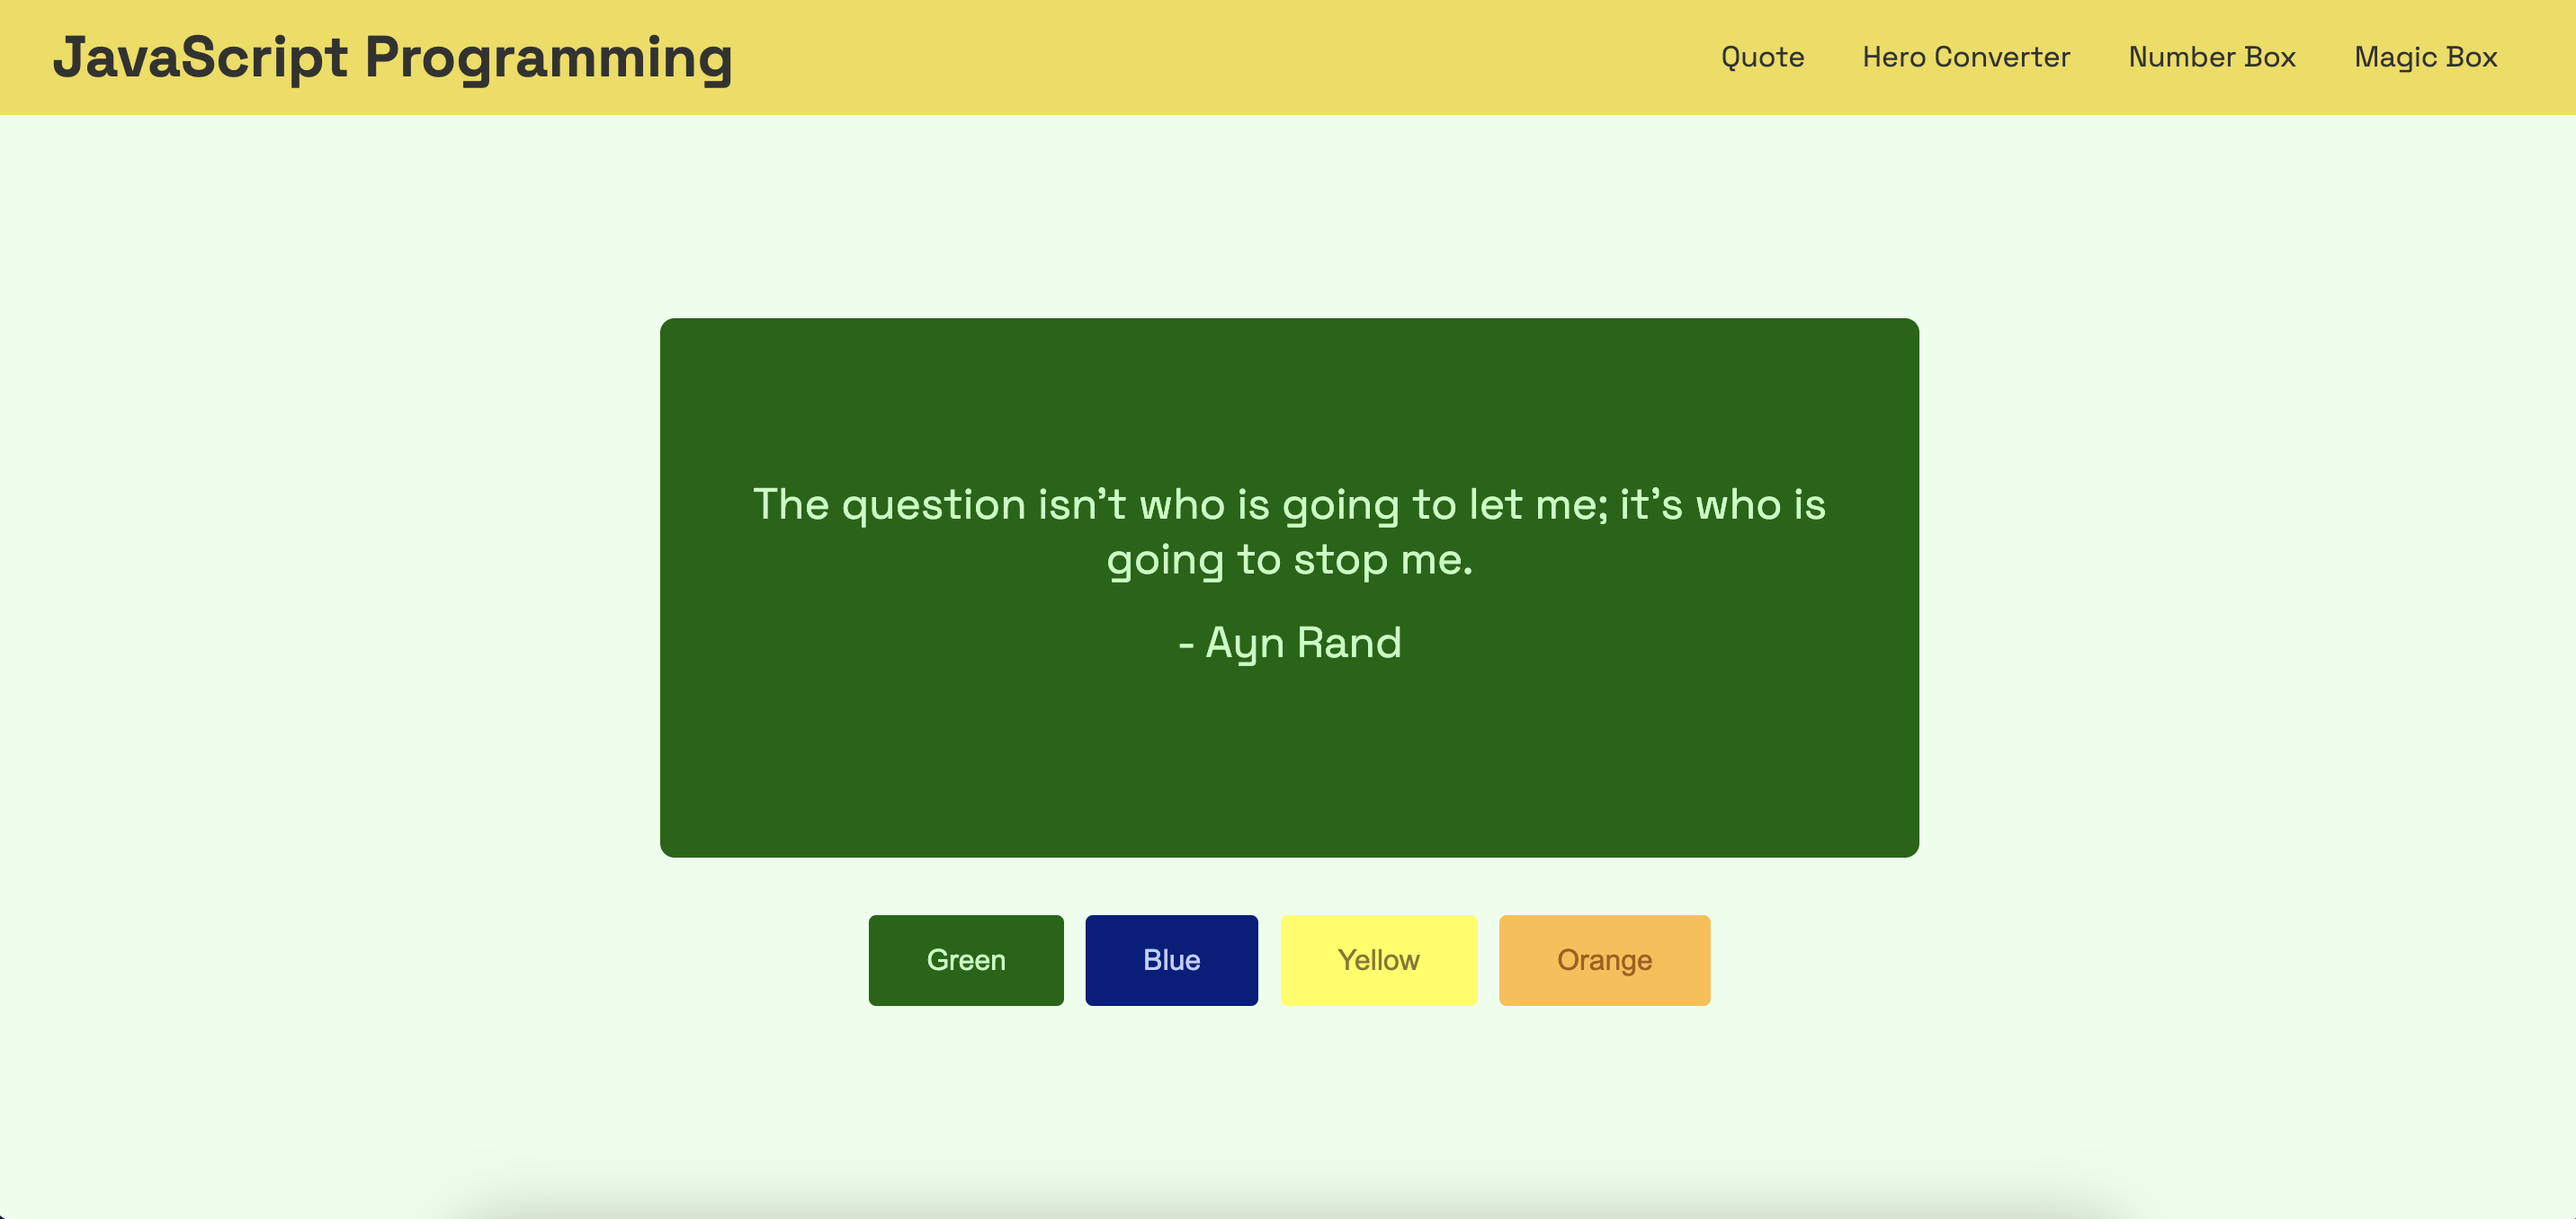
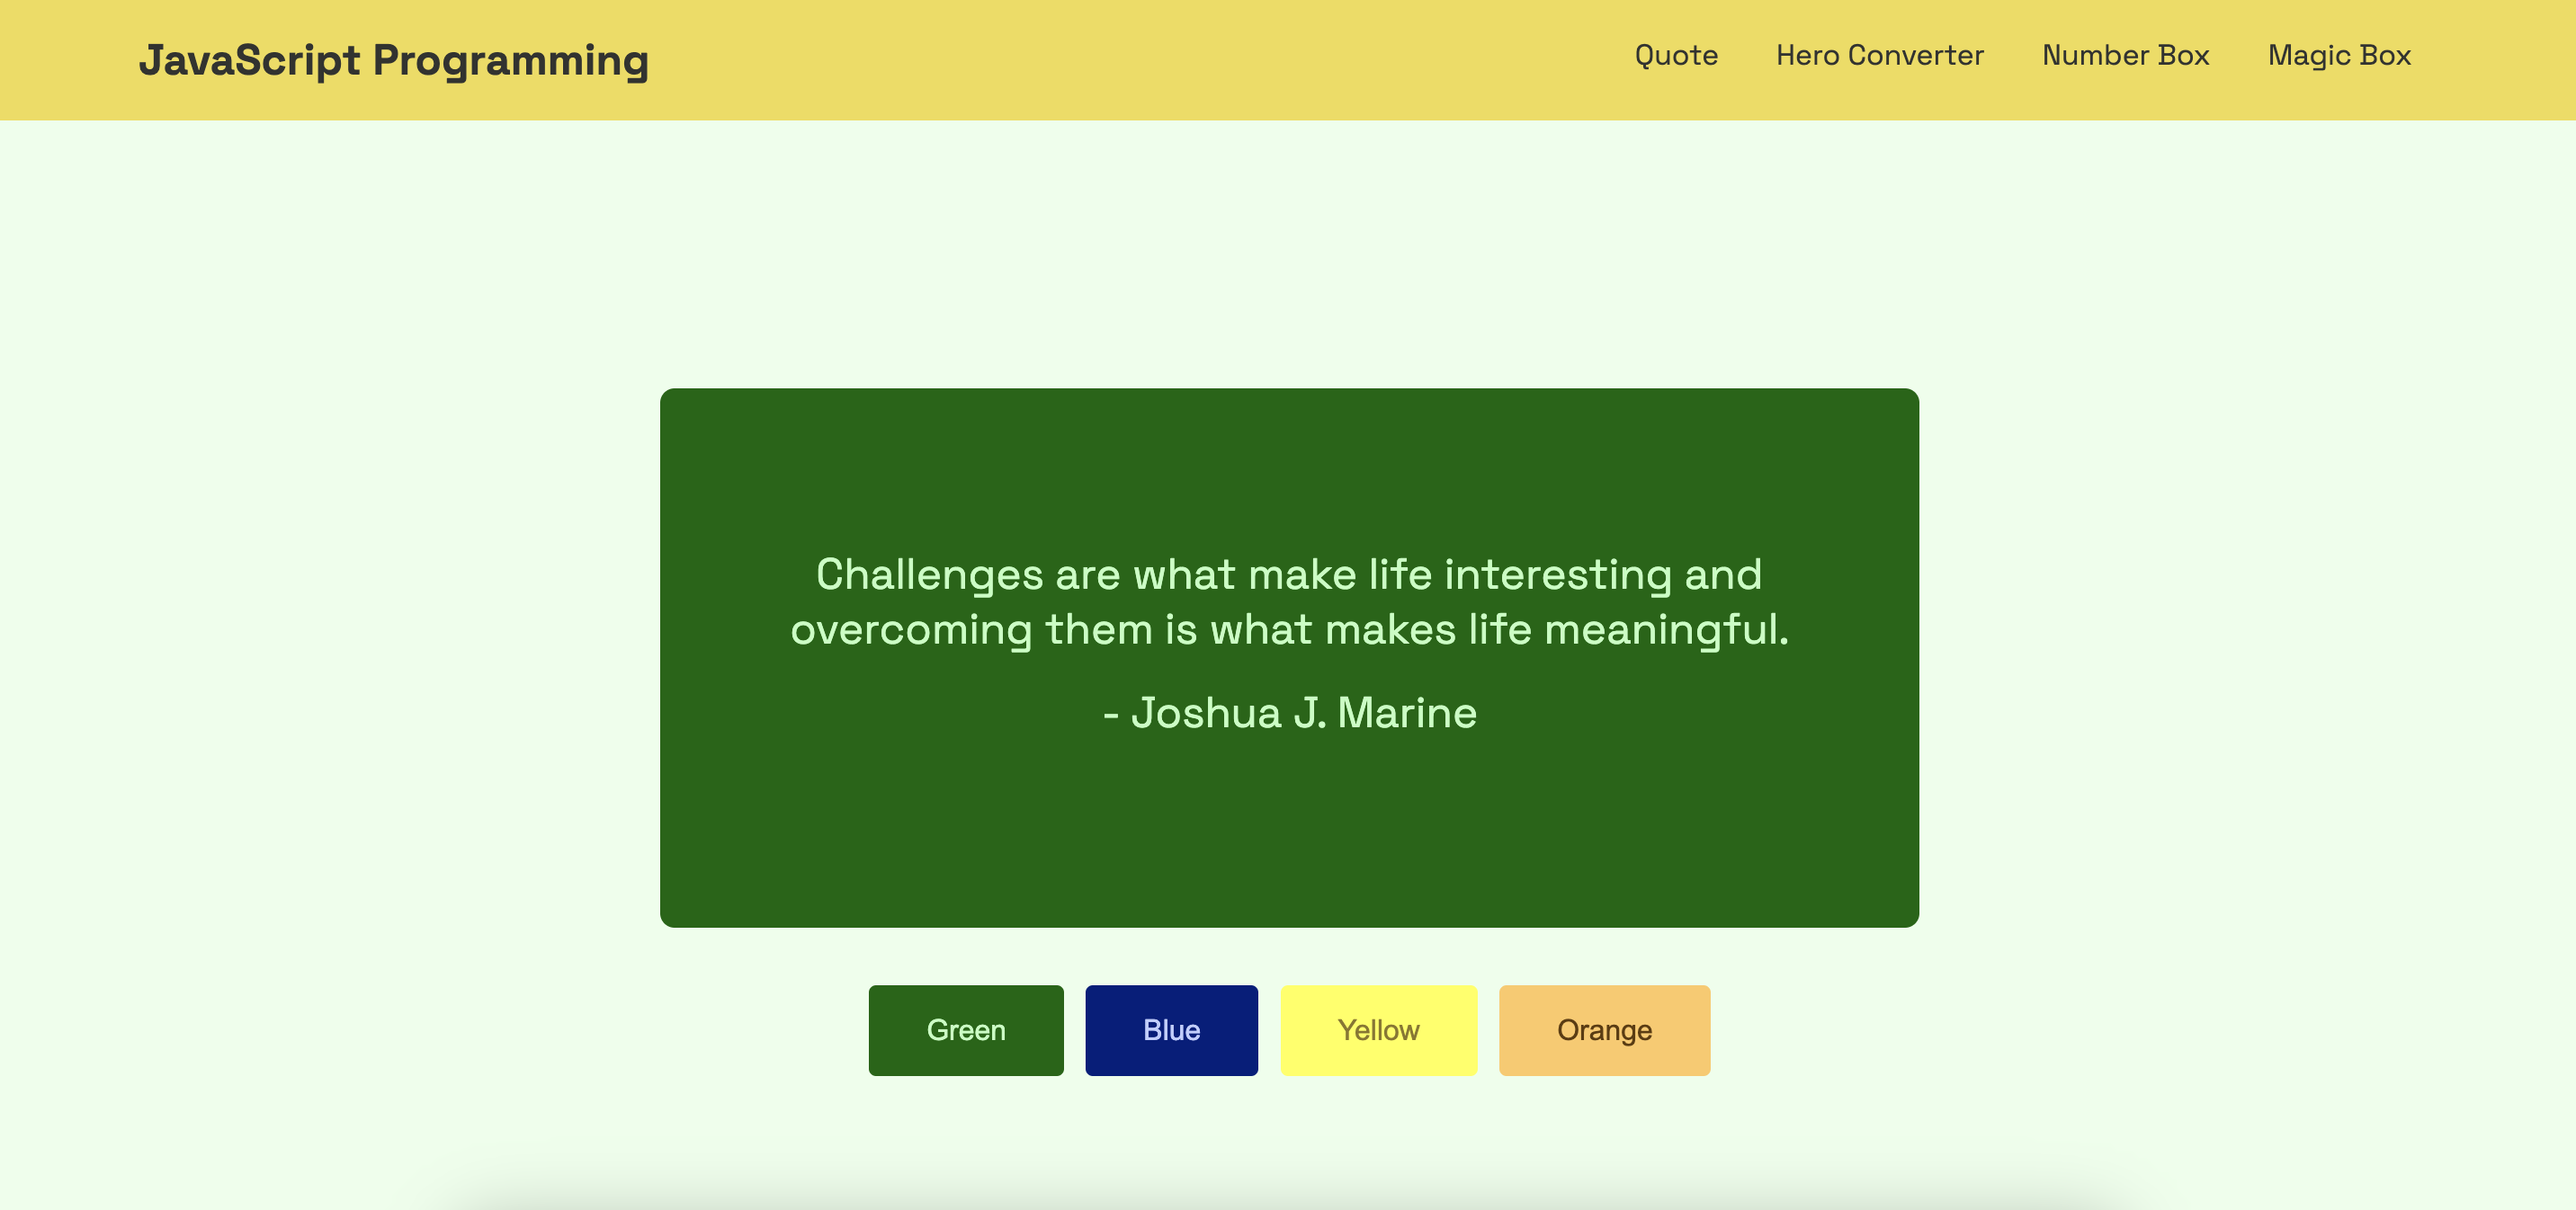
Added assignment 2 in portfolio.

diff --git a/portfolio/index.html b/portfolio/index.html
@@ -36,7 +36,8 @@
             crating efficient and effective solutions. I strive to deliver
             high-quality and user-friendly software that meets the needs of
             clients and end-users. This page is the assignment of my
-            <span><a href="https://piazza.com">CSE391</a></span> course.
+            <span><a href="https://piazza.com" target="_blank">CSE391</a></span>
+            course.
           </p>
           <button
             class="action-btn1"
@@ -69,7 +70,9 @@
             <p>
               I am a student of Computer Science at
               <span
-                ><a href="https://www.bracu.ac.bd">Brac University.</a></span
+                ><a href="https://www.bracu.ac.bd" target="_blank"
+                  >Brac University.</a
+                ></span
               >
               I am a passionate learner and a hard worker. I am always eager to
               learn new things and apply them in my work. I am also a team
@@ -103,16 +106,16 @@
             </table>
           </div>
           <div class="about-me-social">
-            <a href="https://www.facebook.com/sabbirosa">
+            <a href="https://www.facebook.com/sabbirosa" target="_blank">
               <i class="fa-brands fa-square-facebook"></i>
             </a>
-            <a href="https://www.linkedin.com/in/sabbirosa">
+            <a href="https://www.linkedin.com/in/sabbirosa" target="_blank">
               <i class="fa-brands fa-linkedin"></i>
             </a>
-            <a href="https://www.github.com/sabbirosa">
+            <a href="https://www.github.com/sabbirosa" target="_blank">
               <i class="fa-brands fa-square-github"></i>
             </a>
-            <a href="https://x.com/sabbirosa">
+            <a href="https://x.com/sabbirosa" target="_blank">
               <i class="fa-brands fa-square-x-twitter"></i>
             </a>
           </div>
@@ -137,7 +140,13 @@
               <img src="../portfolio/assets/images/assignment-1.png" alt="" />
             </div>
             <div class="project-info">
-              <h2>Personal Porfolio</h2>
+              <h2>
+                <a
+                  href="https://sabbirosa.github.io/CSE391/portfolio"
+                  target="_blank"
+                  >Personal Porfolio</a
+                >
+              </h2>
               <p>
                 This is the first assignment of this course. Where I've created
                 this portfolio page of mine.
@@ -145,6 +154,7 @@
               <div class="project-link">
                 <a
                   href="https://github.com/sabbirosa/CSE391/tree/main/portfolio"
+                  target="_blank"
                   >Source Code</a
                 ><i class="fa-solid fa-arrow-up-right-from-square"></i>
               </div>
@@ -152,17 +162,24 @@
           </div>
           <div class="project-item">
             <div class="project-img">
-              <img src="../portfolio/assets/images/project.jpg" alt="" />
+              <img src="../portfolio/assets/images/assignment-2.png" alt="" />
             </div>
             <div class="project-info">
-              <h2>JavaScript Programming</h2>
+              <h2>
+                <a
+                  href="https://sabbirosa.github.io/CSE391/javascript-programming"
+                  target="_blank"
+                  >JavaScript Programming</a
+                >
+              </h2>
               <p>
                 This assignment shows my ability to create dynamic webpages with
                 JavaScript
               </p>
               <div class="project-link">
                 <a
-                  href="https://sabbirosa.github.io/CSE391/javascript-programming"
+                  href="https://github.com/sabbirosa/CSE391/tree/main/javascript-programming"
+                  target="_blank"
                   >Source Code</a
                 ><i class="fa-solid fa-arrow-up-right-from-square"></i>
               </div>
@@ -173,13 +190,13 @@
               <img src="../portfolio/assets/images/project.jpg" alt="" />
             </div>
             <div class="project-info">
-              <h2>Assignment 3</h2>
+              <h2><a href="#" target="_blank">Assignment 3</a></h2>
               <p>
                 Lorem ipsum dolor sit amet consectetur adipisicing elit.
                 Voluptatum, quibusdam.
               </p>
               <div class="project-link">
-                <a href="#">Source Code</a
+                <a href="#" target="_blank">Source Code</a
                 ><i class="fa-solid fa-arrow-up-right-from-square"></i>
               </div>
             </div>
@@ -230,26 +247,28 @@
             <h2>Contact Info</h2>
             <h3><i class="fa-solid fa-envelope"></i> Email</h3>
             <p>
-              <a href="mailto:sabbir.latif@bracu.com">hello@sabbir.co</a>
+              <a href="mailto:sabbir.latif@bracu.com" target="_blank"
+                >hello@sabbir.co</a
+              >
             </p>
             <h3><i class="fa-solid fa-phone"></i> Phone</h3>
             <p>
-              <a href="tel:+8801712345678">+8801923361726</a>
+              <a href="tel:+8801712345678" target="_blank">+8801923361726</a>
             </p>
             <h3><i class="fa-solid fa-map-marker"></i> Address</h3>
             <p>Uttara, Dhaka, Bangladesh</p>
 
             <div class="social-media">
-              <a href="https://www.facebook.com/sabbirosa">
+              <a href="https://www.facebook.com/sabbirosa" target="_blank">
                 <i class="fa-brands fa-square-facebook"></i>
               </a>
-              <a href="https://www.linkedin.com/in/sabbirosa">
+              <a href="https://www.linkedin.com/in/sabbirosa" target="_blank">
                 <i class="fa-brands fa-linkedin"></i>
               </a>
-              <a href="https://www.github.com/sabbirosa">
+              <a href="https://www.github.com/sabbirosa" target="_blank">
                 <i class="fa-brands fa-square-github"></i>
               </a>
-              <a href="https://x.com/sabbirosa">
+              <a href="https://x.com/sabbirosa" target="_blank">
                 <i class="fa-brands fa-square-x-twitter"></i>
               </a>
             </div>
@@ -300,10 +319,10 @@
     <script>
       document.getElementById(
         "location"
-      ).innerHTML = `<span class="primary-color">Page's Location:</span> ${window.location.href}`;
+      ).innerHTML = `<strong><span class="primary-color">Page's Location:</span></strong> ${window.location.href}`;
       document.getElementById(
         "lastModified"
-      ).innerHTML = `<span class="primary-color">Last Modified:</span> ${document.lastModified}`;
+      ).innerHTML = `<strong><span class="primary-color">Last Modified:</span></strong> ${document.lastModified}`;
     </script>
 
     <script src="script.js"></script>

diff --git a/javascript-programming/style.css b/javascript-programming/style.css
@@ -26,7 +26,7 @@ header {
   display: flex;
   justify-content: space-between;
   align-items: center;
-  padding: 0.75rem 2rem;
+  padding: 0.75rem 5rem 1rem 5rem;
   background-color: #f0db4f;
   position: sticky;
   top: 0;
@@ -36,6 +36,7 @@ header {
 header a {
   text-decoration: none;
   color: #323330;
+  font-size: 1.5rem;
   transition: all 0.3s ease;
 }
 
@@ -51,6 +52,7 @@ nav ul li {
 nav ul li a {
   text-decoration: none;
   color: #323330;
+  font-size: 1rem;
   transition: all 0.3s ease;
 }
 

diff --git a/portfolio/style.css b/portfolio/style.css
@@ -16,6 +16,9 @@
   color: var(--primary-color);
 }
 
+a {
+}
+
 span a {
   color: var(--primary-color);
 }
@@ -262,6 +265,16 @@ nav {
 
 .project-info {
   padding: 20px;
+}
+
+.project-info h2 {
+  font-size: 24px;
+  margin-bottom: 10px;
+}
+
+.project-info h2 a {
+  color: var(--primary-color);
+  text-decoration: none;
 }
 
 .project-info h2 {
